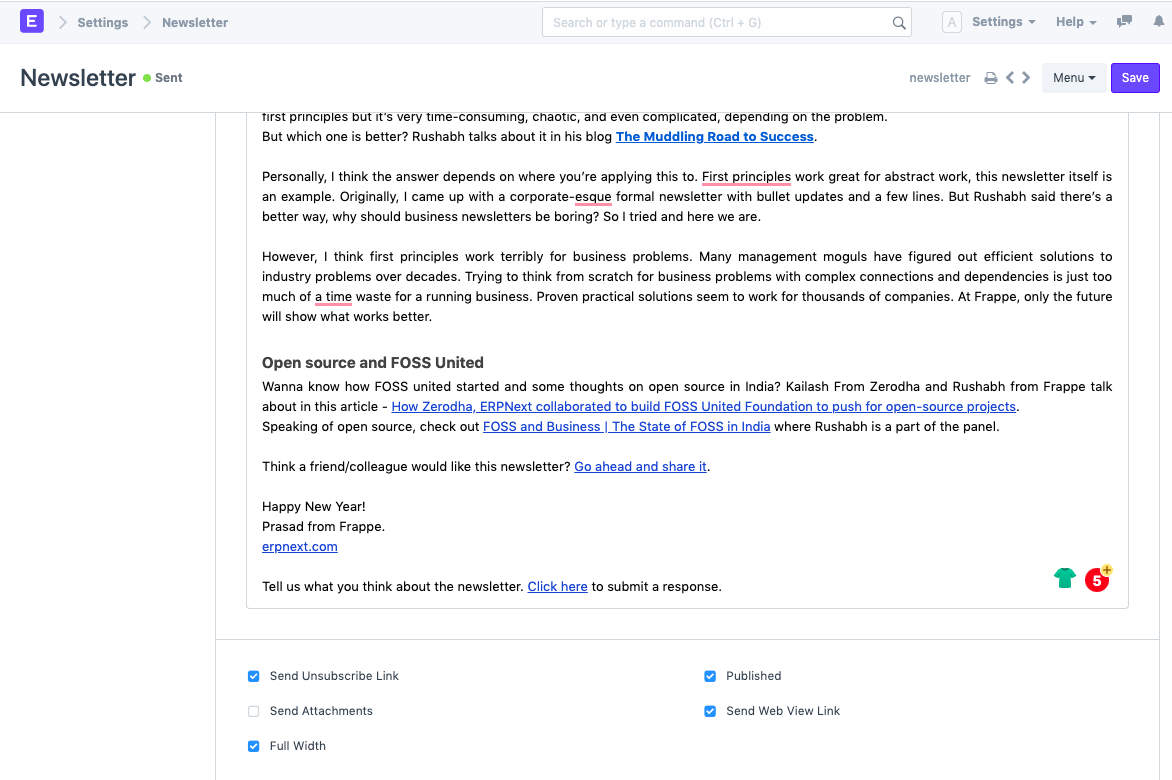
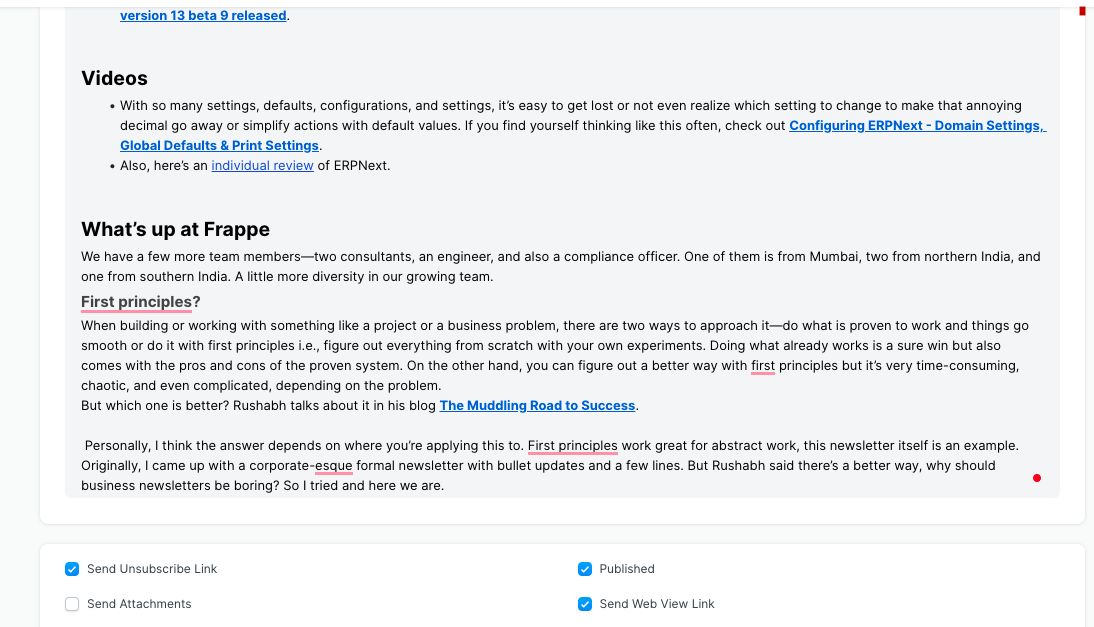
fix: removed content for full width

diff --git a/erpnext_documentation/www/docs/user/manual/en/CRM/newsletter.md b/erpnext_documentation/www/docs/user/manual/en/CRM/newsletter.md
@@ -17,27 +17,15 @@ To access the Newsletter list, go to:
 1. Select the Email Group in RECIPIENT table.
 1. Enter 'Subject'.
 1. Enter 'Message'.
+1. 'Publish' the newsletter to make it available on the web.
 1. Tick 'Send Unsubscribe Link' if you would like to include unsubscribe link in the email.
-1. 'Full Width' will make your newsletter email occupy the complete width of the screen. If this is unchecked then the newsletter email will have some margin on both its side.
-1. 'Send Web View Link' will include a link in the email to open the newsletter on the web.
+1. 'Send Web View Link' will include a link in the email to open the newsletter on the web. This option is only visible when the newsletter is published.
 
 <img class="screenshot" alt="Newsletter" src="{{docs_base_url}}/assets/img/crm/newsletter-doc.png">
 
 <img class="screenshot" alt="Newsletter" src="{{docs_base_url}}/assets/img/crm/newsletter-doc-2.png">
 
-Below is the screenshot of the email received with link to unsubscribe.
-
-<img class="screenshot" alt="Lead" src="{{docs_base_url}}/assets/img/crm/newsletter.png">
-
-Screenshot of the email with Full Width checked.
-
-<img class="screenshot" alt="Lead" src="{{docs_base_url}}/assets/img/crm/newsletter-doc-full-width.png">
-
-Screenshot of the email with Full Width unchecked.
-
-<img class="screenshot" alt="Lead" src="{{docs_base_url}}/assets/img/crm/newsletter-doc-half-width.png">
-
-Screenshot of the email with link to open the email on the web.
+Below is the screenshot of the email received with link to unsubscribe and a link to open the email on the web.
 
 <img class="screenshot" alt="Lead" src="{{docs_base_url}}/assets/img/crm/newsletter-doc-web-link.png">
 
